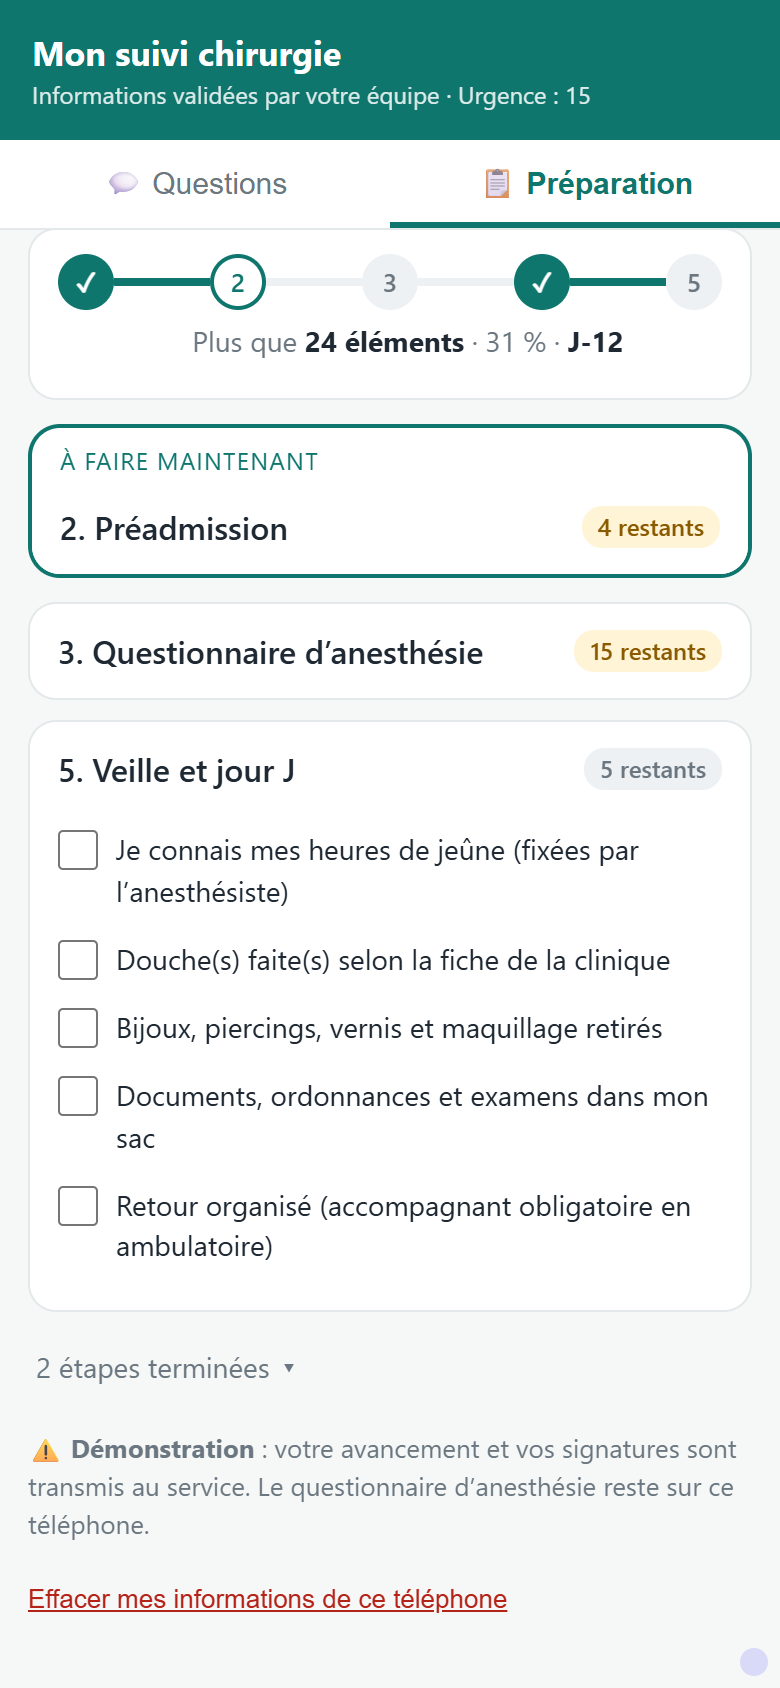
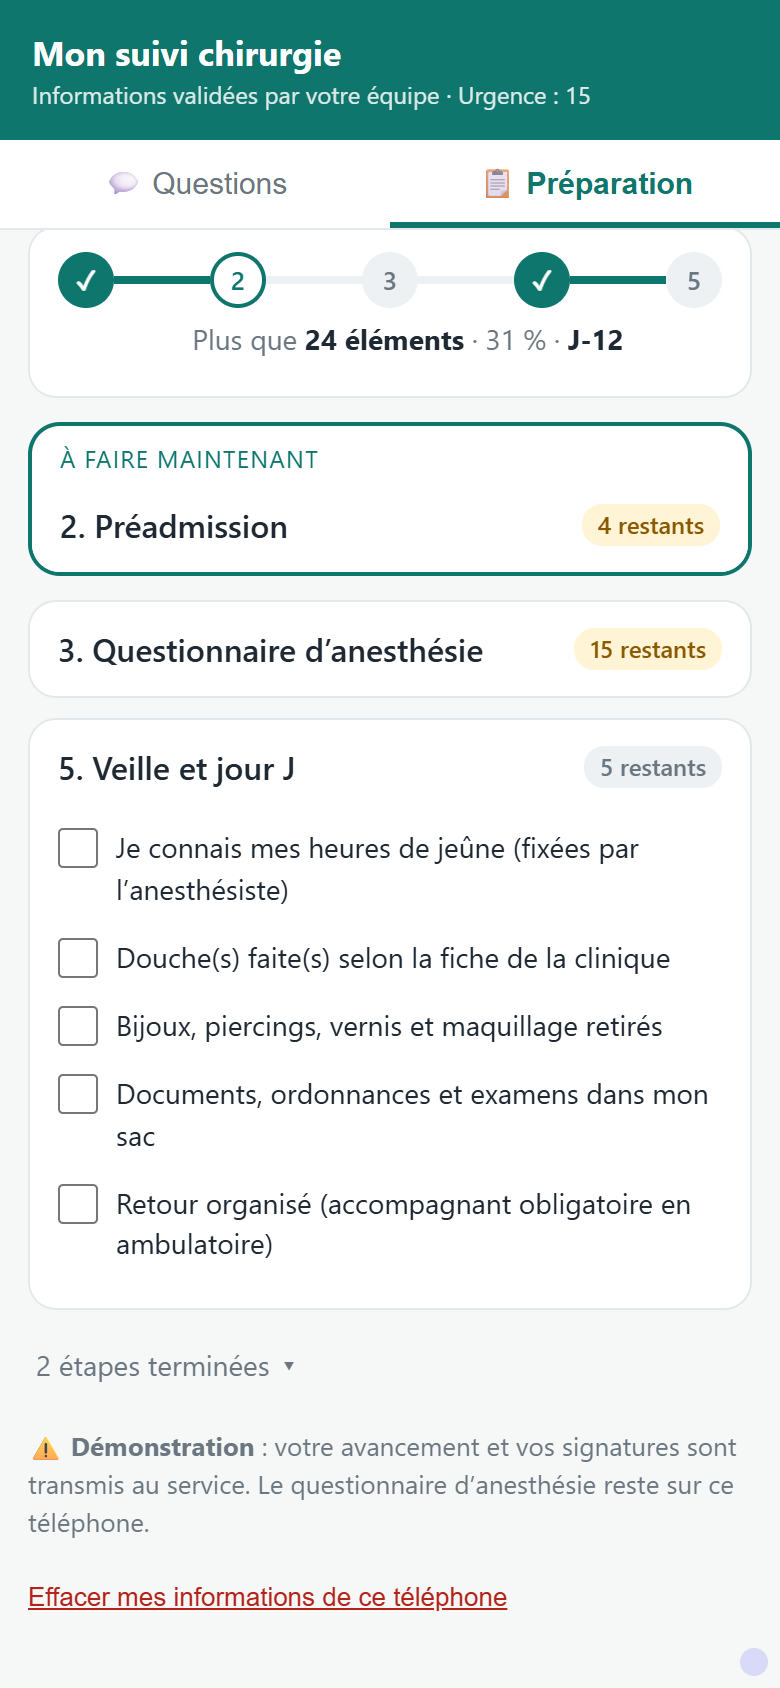
auto(conv-111): la partie consentement est horrible il faut laisser uniquement ce que je met en screenshot

diff --git a/public/prep.js b/public/prep.js
@@ -148,14 +148,13 @@
 
     const cb = (path, label) => `<label class="cb"><input type="checkbox" data-path="${path}" ${g(path) ? 'checked' : ''}> ${esc(label)}</label>`;
 
-    // Étape 4 : résumé des points clés, document complet repliable, signature INSÉRÉE dans le document (modèles de public/consentements.js).
+    // Étape 4 : le document seul, affiché en entier, puis la signature, INSÉRÉE dans le document (modèles de public/consentements.js).
+    // Ni texte d'introduction, ni titre, ni points clés, ni lien à déplier (demande utilisateur, 2026-10-05).
     const sigBloc = (k, l, d) => {
       const sig = g('sig.' + k), M = (window.CONSENTEMENTS_MODELES || {})[k];
-      const tete = `<div><b>${sig || g('consent.' + k) ? '✓ ' : ''}${esc(M ? M.titre : l)}</b>${M ? ' <span class="prov">Modèle provisoire</span>' : ''}</div>`;
-      const corps = M ? `<ul class="resume">${M.resume.map(r => '<li>' + r + '</li>').join('')}</ul>
-        <details class="doc" data-testid="doc-${k}" ${sig ? 'open' : ''}><summary>${sig ? 'Voir le document signé' : 'Lire le document complet'}</summary>${docHtml(k)}</details>`
-        : `<div class="sub" style="margin-left:0">${esc(d)}</div>`;
-      return `<div class="sigb" data-testid="sig-${k}">${tete}${corps}` + (sig
+      const corps = M ? `<div class="doc" data-testid="doc-${k}">${docHtml(k)}</div>`
+        : `<div><b>${sig || g('consent.' + k) ? '✓ ' : ''}${esc(l)}</b></div><div class="sub" style="margin-left:0">${esc(d)}</div>`;
+      return `<div class="sigb" data-testid="sig-${k}">${corps}` + (sig
         ? `<div class="sub" style="margin-left:0">Signé le ${esc(sig.le)} <button type="button" class="lnk" data-act="sig-effacer" data-k="${k}">Effacer</button></div>${M ? `<button type="button" class="btn" data-act="sig-imprimer" data-k="${k}">🖨 Enregistrer le document signé (PDF)</button>` : `<img class="sigimg" src="${sig.img}" alt="Signature">`}`
         : `<div class="kick">Votre signature</div><canvas class="sigpad" data-k="${k}" width="600" height="200"></canvas><button type="button" class="btn" data-act="sig-valider" data-k="${k}">Valider ma signature</button> <button type="button" class="lnk" data-act="sig-recommencer" data-k="${k}">Recommencer</button>`) + '</div>';
     };
@@ -189,7 +188,6 @@
         ${anesthForm}
         <button type="button" class="btn" data-act="print">🖨 Imprimer / enregistrer en PDF</button>`)}
       ${def('consent', `
-        <p class="note">Lisez les points clés, ouvrez le document complet si besoin, puis signez avec le doigt : la signature est <b>placée dans le document</b>. ⚠ Ces textes sont des <b>modèles provisoires</b>, en attendant les formulaires officiels du chirurgien, de l’anesthésiste et de la clinique. Cette signature est transmise au service (démonstration) : elle ne remplace pas la signature du document officiel.</p>
         ${consentsActifs().map(([k, l, d]) => sigBloc(k, l, d)).join('')}`)}
       ${def('jourj', JOURJ.map(([k, l]) => cb('jourj.' + k, l)).join(''))}
 `;
